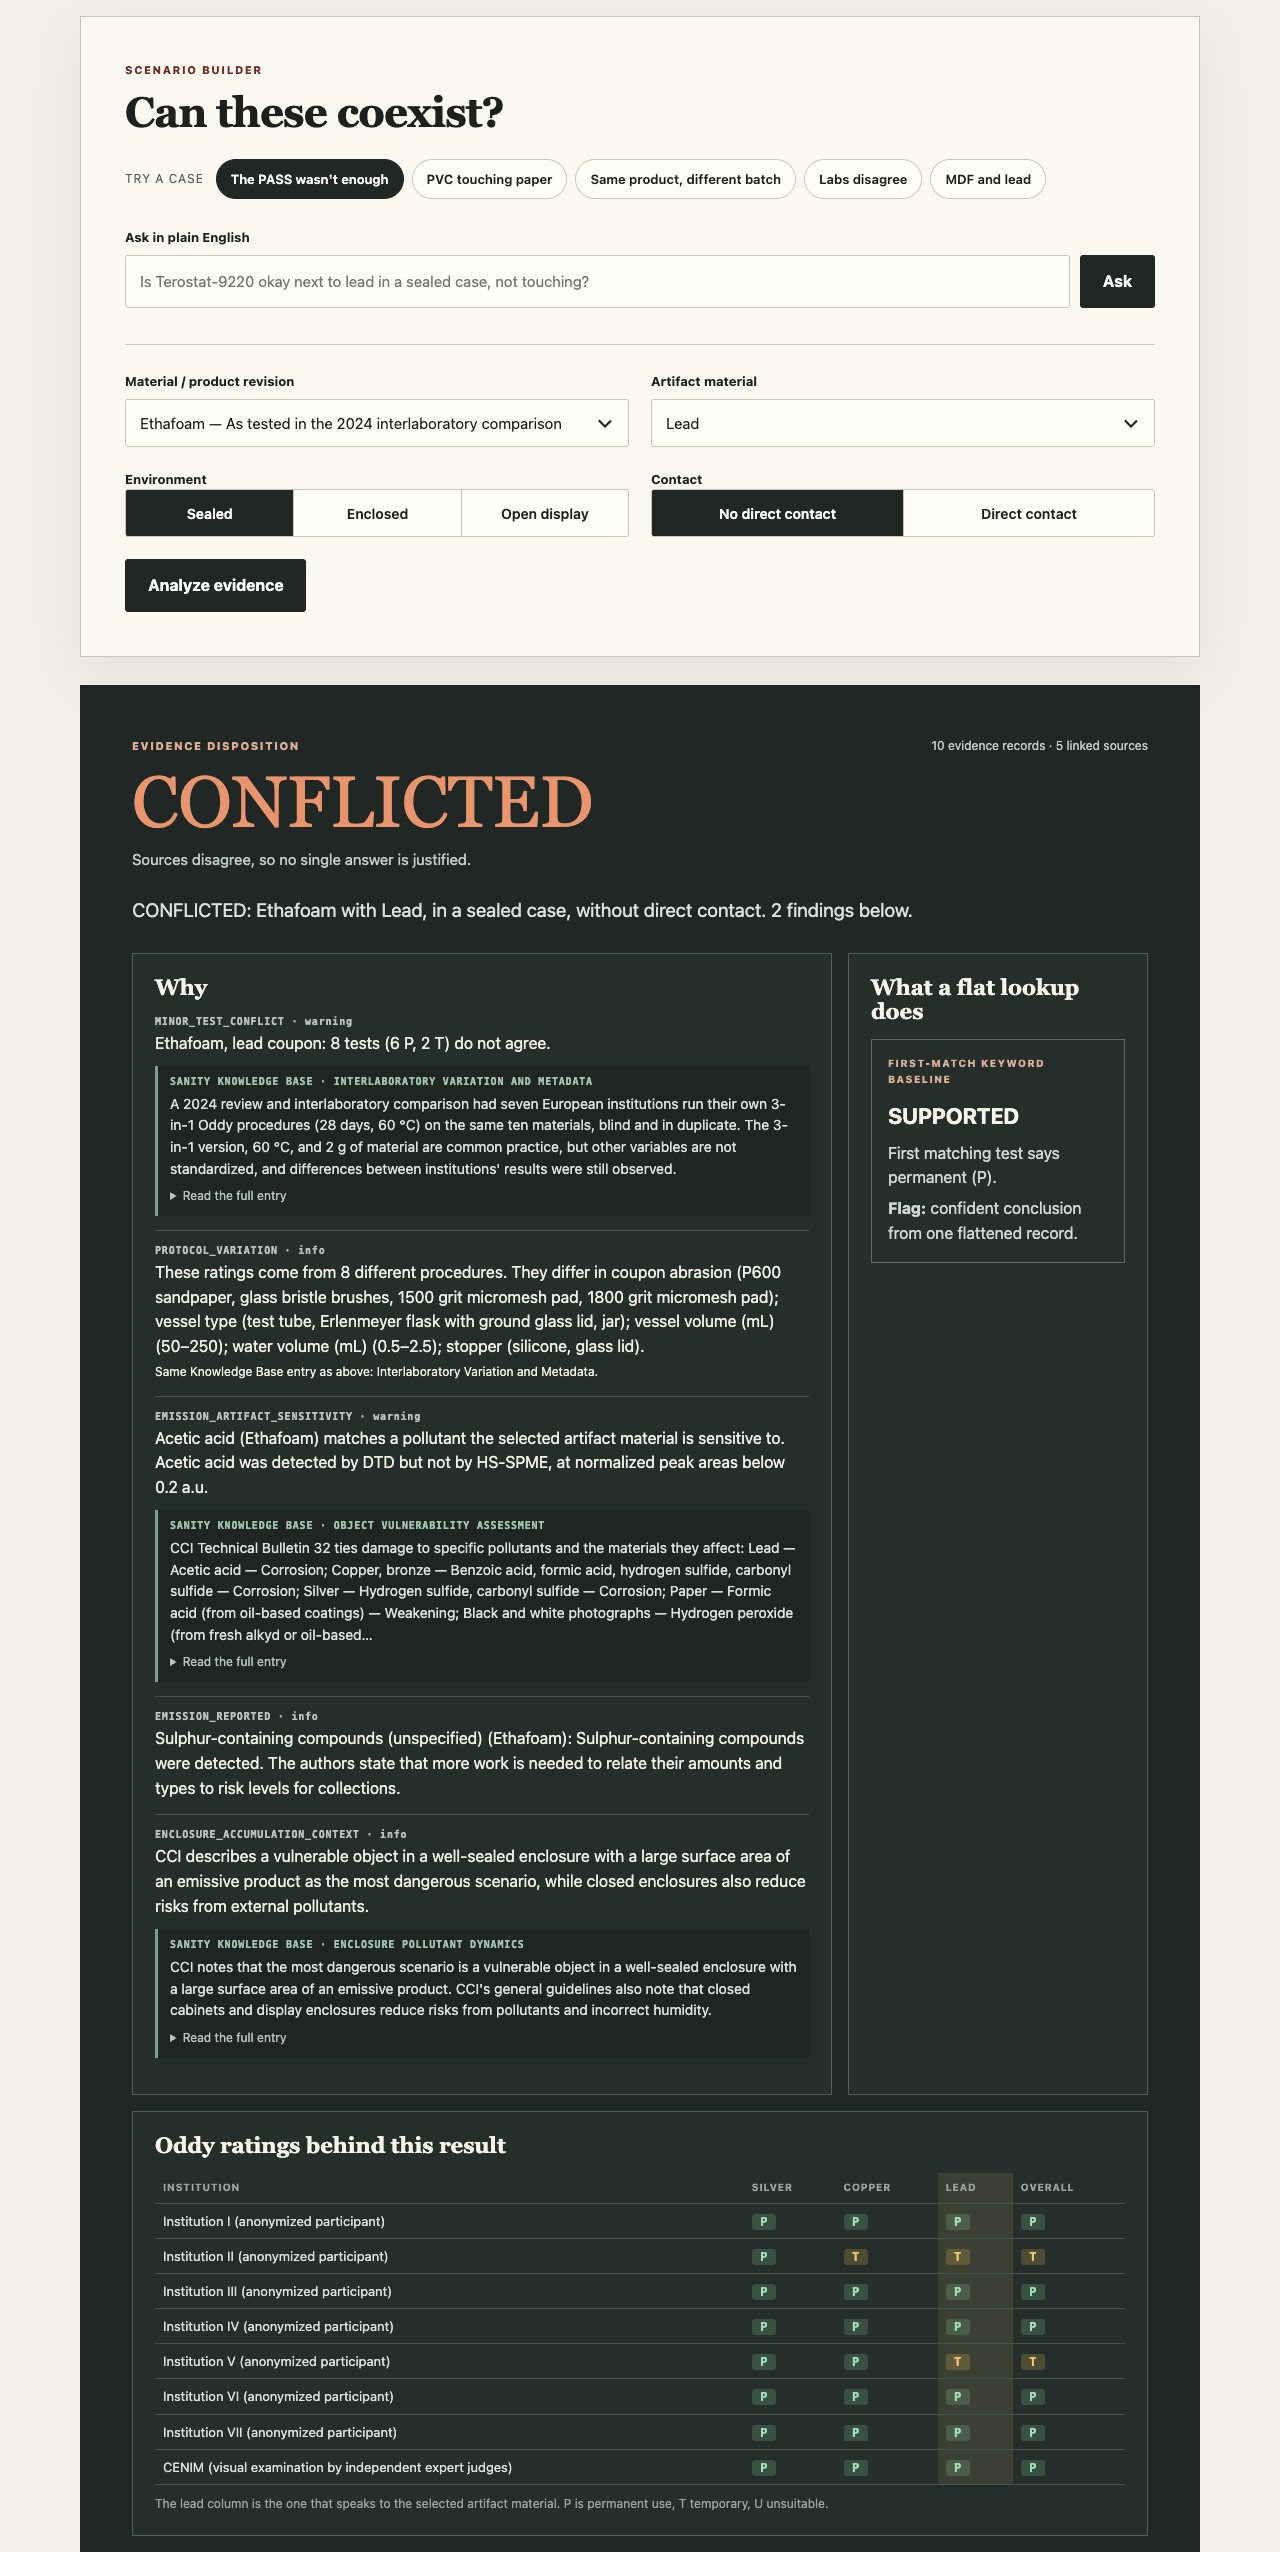
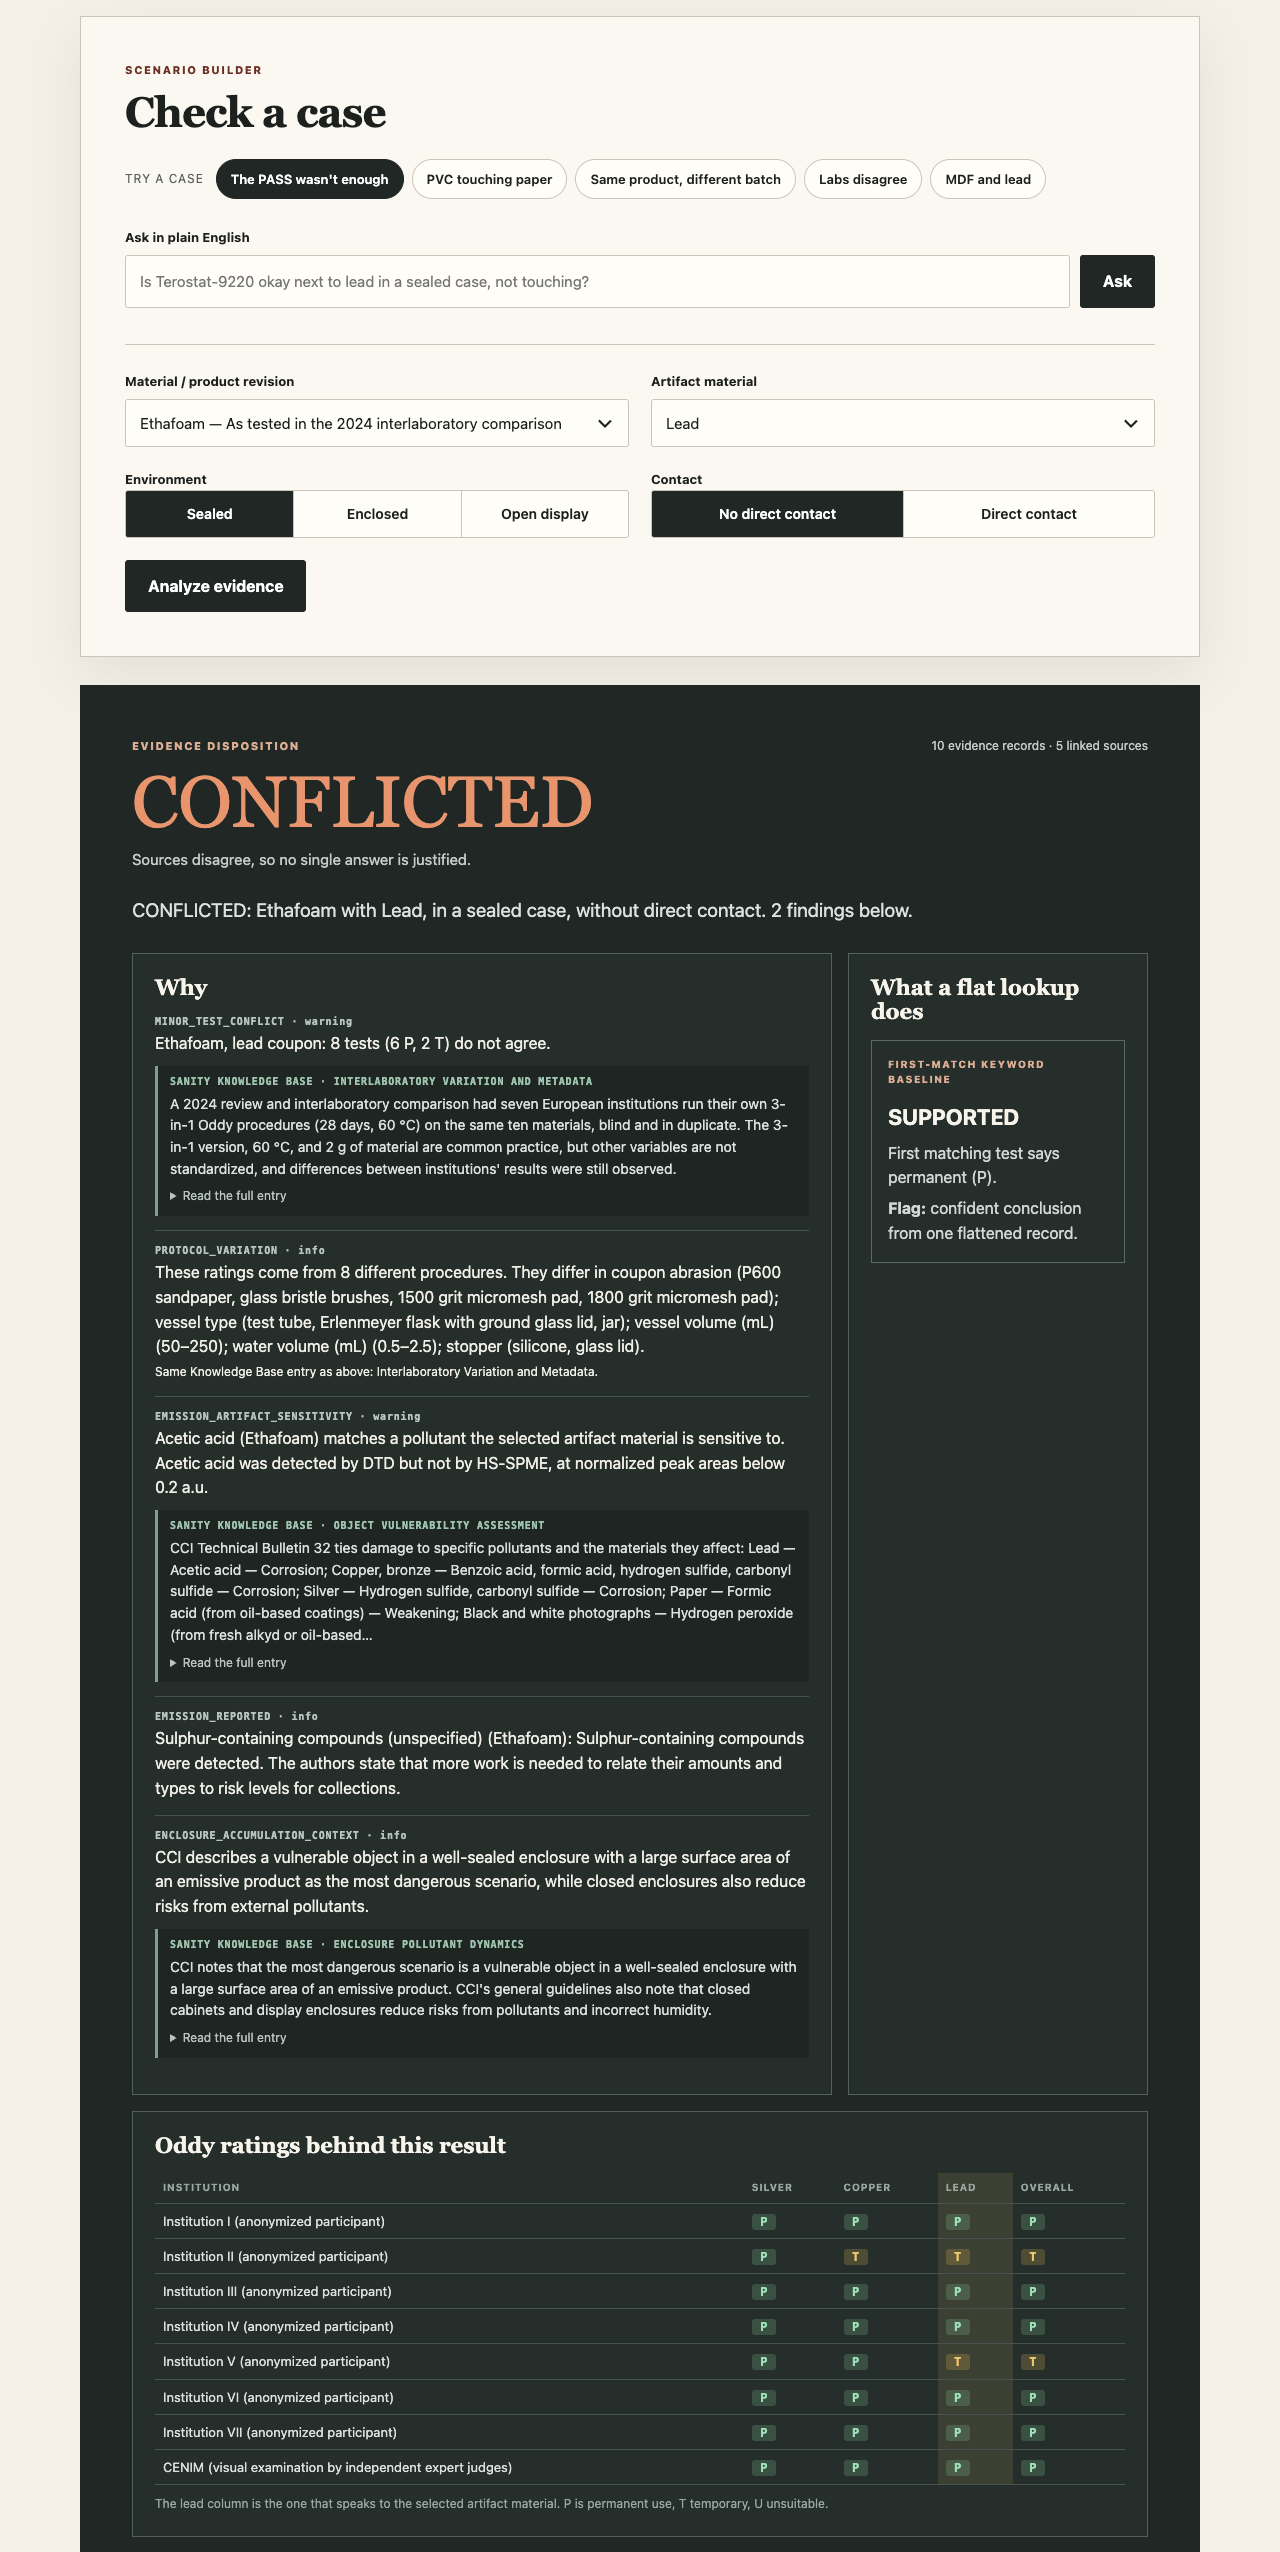
docs: plain-language homepage, Sanity role

Changed region(s): [[0.125, 0.031, 0.375, 0.0619], [0.125, 0.712, 0.1875, 0.7429], [0.25, 0.712, 0.2812, 0.7429]]

diff --git a/public/index.html b/public/index.html
@@ -36,11 +36,11 @@
     </header>
     <main>
       <section class="hero">
-        <div class="eyebrow">Conservation evidence engine</div>
-        <h1>A test result is evidence.<br />It is not a permanent property of a material.</h1>
+        <div class="eyebrow">For museum display cases</div>
+        <h1>Can this material sit next to that museum object?</h1>
         <p class="lede">
-          Check whether a material's test evidence actually applies to your object, formulation,
-          contact mode and enclosure.
+          A lab "pass" only covers the sample that was tested. Pick your material, object and
+          display, and see what the published evidence really supports, with sources.
         </p>
       </section>
 
@@ -48,7 +48,7 @@
         <div class="panel-head">
           <div>
             <div class="eyebrow">Scenario builder</div>
-            <h2 id="analyzerTitle">Can these coexist?</h2>
+            <h2 id="analyzerTitle">Check a case</h2>
           </div>
           <div class="presets" role="group" aria-label="Example cases">
             <span class="presets-label">Try a case</span
@@ -166,6 +166,43 @@
           <h3>Agent trace</h3>
           <div id="trace"></div>
         </section>
+      </section>
+
+      <section class="method-grid" aria-label="About this site">
+        <article class="method-card">
+          <span>01</span>
+          <h2>The problem</h2>
+          <p>
+            Glue, foam and paint in a display case can give off fumes that corrode metal objects.
+            Labs test materials, and a "pass" sounds final. It only means the one sample they tested
+            did not hurt the metal in their setup.
+          </p>
+        </article>
+        <article class="method-card">
+          <span>02</span>
+          <h2>What this does</h2>
+          <p>
+            It looks up published test results for your material, shows which labs and batches they
+            come from, and says where they disagree or do not apply. Every line links to its source.
+          </p>
+        </article>
+        <article class="method-card">
+          <span>03</span>
+          <h2>Where Sanity fits</h2>
+          <p>
+            Each test, product batch, lab and source is a linked record in Sanity, fetched live. The
+            links are what let it warn that a pass missed a later problem. The answer itself comes
+            from fixed rules, not from Sanity or an AI.
+          </p>
+        </article>
+        <article class="method-card">
+          <span>04</span>
+          <h2>What it will not do</h2>
+          <p>
+            It never says "safe" and never gives a percentage. It only knows what a few published
+            papers report. It helps you think and does not replace a conservator.
+          </p>
+        </article>
       </section>
 
       <section class="panel legend" aria-labelledby="legendTitle">

diff --git a/README.md b/README.md
@@ -4,9 +4,22 @@ An agent that tells you what the evidence actually supports for a museum materia
 
 Built for the 2026 DEV / Sanity Challenge, Path One. Sanity Context MCP supplies the evidence; explicit rules decide.
 
+**Live demo:** https://artifactguard.onrender.com (no login; the first visit after a long idle can take a minute)
+
 **Dataset:** Sanity project `3yfxc6mg`, dataset `production` (public)
 
 ![Ethafoam against lead in a sealed case. Eight tests rate the lead coupon, two of them T, so the answer is CONFLICTED. A first-match keyword lookup would report permanent (P).](docs/img/flagship-case.png)
+
+## In plain words
+
+- **The problem:** things in a museum display case can slowly hurt the objects next to them. Glue, foam and paint can give off fumes that corrode metal or leave deposits.
+- **The test:** labs check materials with the Oddy test. They seal metal strips with the material for 28 days and see if the metal corrodes. A "pass" sounds final, but it only covers the one sample, lab and setup that was tested.
+- **This tool:** you pick a material, an object and how it will be displayed. It looks up the published test results and tells you what they really cover and what they do not. Every answer links to its sources.
+- **What it never does:** it never says "safe" and never gives a percentage. It only knows what a few published papers report. It is a thinking aid and does not replace a conservator.
+
+In more detail:
+
+Museums put glue, foam, paint and plastic in display cases next to objects. Some of these materials give off fumes that corrode metal or leave deposits. Conservators screen them with the Oddy test, which seals metal strips with a material for 28 days and rates the corrosion. A pass is reported as if it were a property of the material, but it only covers the batch, laboratory and setup that were tested. ArtifactGuard shows what the published evidence supports for the material, object and display you pick, where sources disagree, and what the sources do not say.
 
 ## The problem
 

diff --git a/docs/DEPLOYMENT.md b/docs/DEPLOYMENT.md
@@ -16,12 +16,16 @@ The host normally sets `PORT`. The default is `3000`.
 
 ## Render
 
+Render's free instance needs no code changes and runs the `Dockerfile` as is.
+
 1. New → Web Service, connect the repository.
-2. Runtime: **Docker**. Render uses the `Dockerfile`.
+2. Runtime: **Docker**. Instance type: **Free**.
 3. Add the environment variables above.
 4. Deploy, then open the URL.
 
-Free instances sleep when idle, so the first request can take about a minute. Use a paid instance if the demo needs to answer immediately.
+A free instance spins down after 15 minutes without inbound traffic, and the first request afterwards takes about a minute. Render includes 750 free instance hours a month, and one service running all month uses 744 in a 31-day month, so keep a single free service on the workspace.
+
+To keep it awake, add an HTTP monitor on the service URL in UptimeRobot (free plan: 5-minute interval, no card). The monitor is traffic like any other, and a check every 5 minutes keeps the instance running.
 
 ## Docker
 
